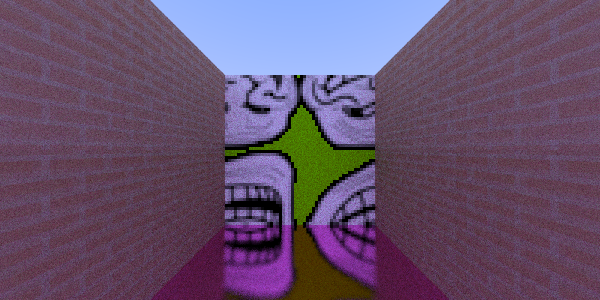
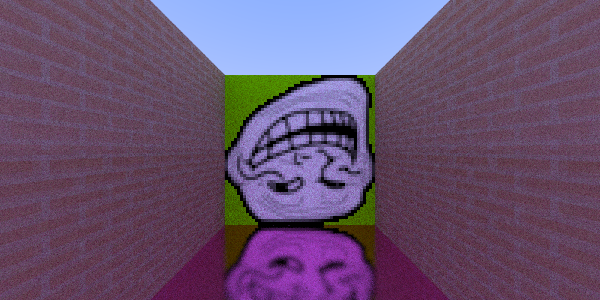
Fix plane texture centering

diff --git a/src/main.rs b/src/main.rs
@@ -153,6 +153,7 @@ impl Plane {
     }
 }
 
+#[derive(Debug)]
 struct HitRecord {
     t: f64,
     p: Vector3<f64>,
@@ -173,7 +174,7 @@ impl HitRecord {
     }
 }
 
-#[derive(Clone,Copy)]
+#[derive(Clone,Copy,Debug)]
 struct Material {
     albedo: Vector3<f64>,
     fuzziness: f64,
@@ -253,9 +254,10 @@ impl Material {
             },
             MaterialType::Texture => {
                 *scattered = Ray::new(rec.p, vec3_add(rec.normal, get_random_in_sphere()));
+
                 let offset = vec3_sub(rec.p, rec.center);
-                let mut horizontal_vector: Vector3<f64>;
-                let mut vertical_vector: Vector3<f64>;
+                let horizontal_vector: Vector3<f64>;
+                let vertical_vector: Vector3<f64>;
                 let stdvecs = [[1.0,0.0,0.0],[-1.0,0.0,0.0],[0.0,1.0,0.0],[0.0,-1.0,0.0],[0.0,0.0,1.0],[0.0,0.0,-1.0]];
                 if stdvecs.iter().any(|v| *v == rec.normal) {
                     let (hv, vv) = get_vecs(rec.normal);
@@ -293,7 +295,7 @@ impl Material {
     }
 }
 
-#[derive(Clone,Copy)]
+#[derive(Clone,Copy,Debug)]
 enum MaterialType {
     Lambertian,
     Metal,
@@ -462,6 +464,7 @@ fn hits(ray: Ray, spheres: &Vec<Sphere>, planes: &Vec<Plane>, mint: f64, maxt: f
             rec.p = temp_rec.p;
             rec.normal = temp_rec.normal;
             rec.mat = temp_rec.mat;
+            rec.center = temp_rec.center;
         }
     }
     hit_anything
